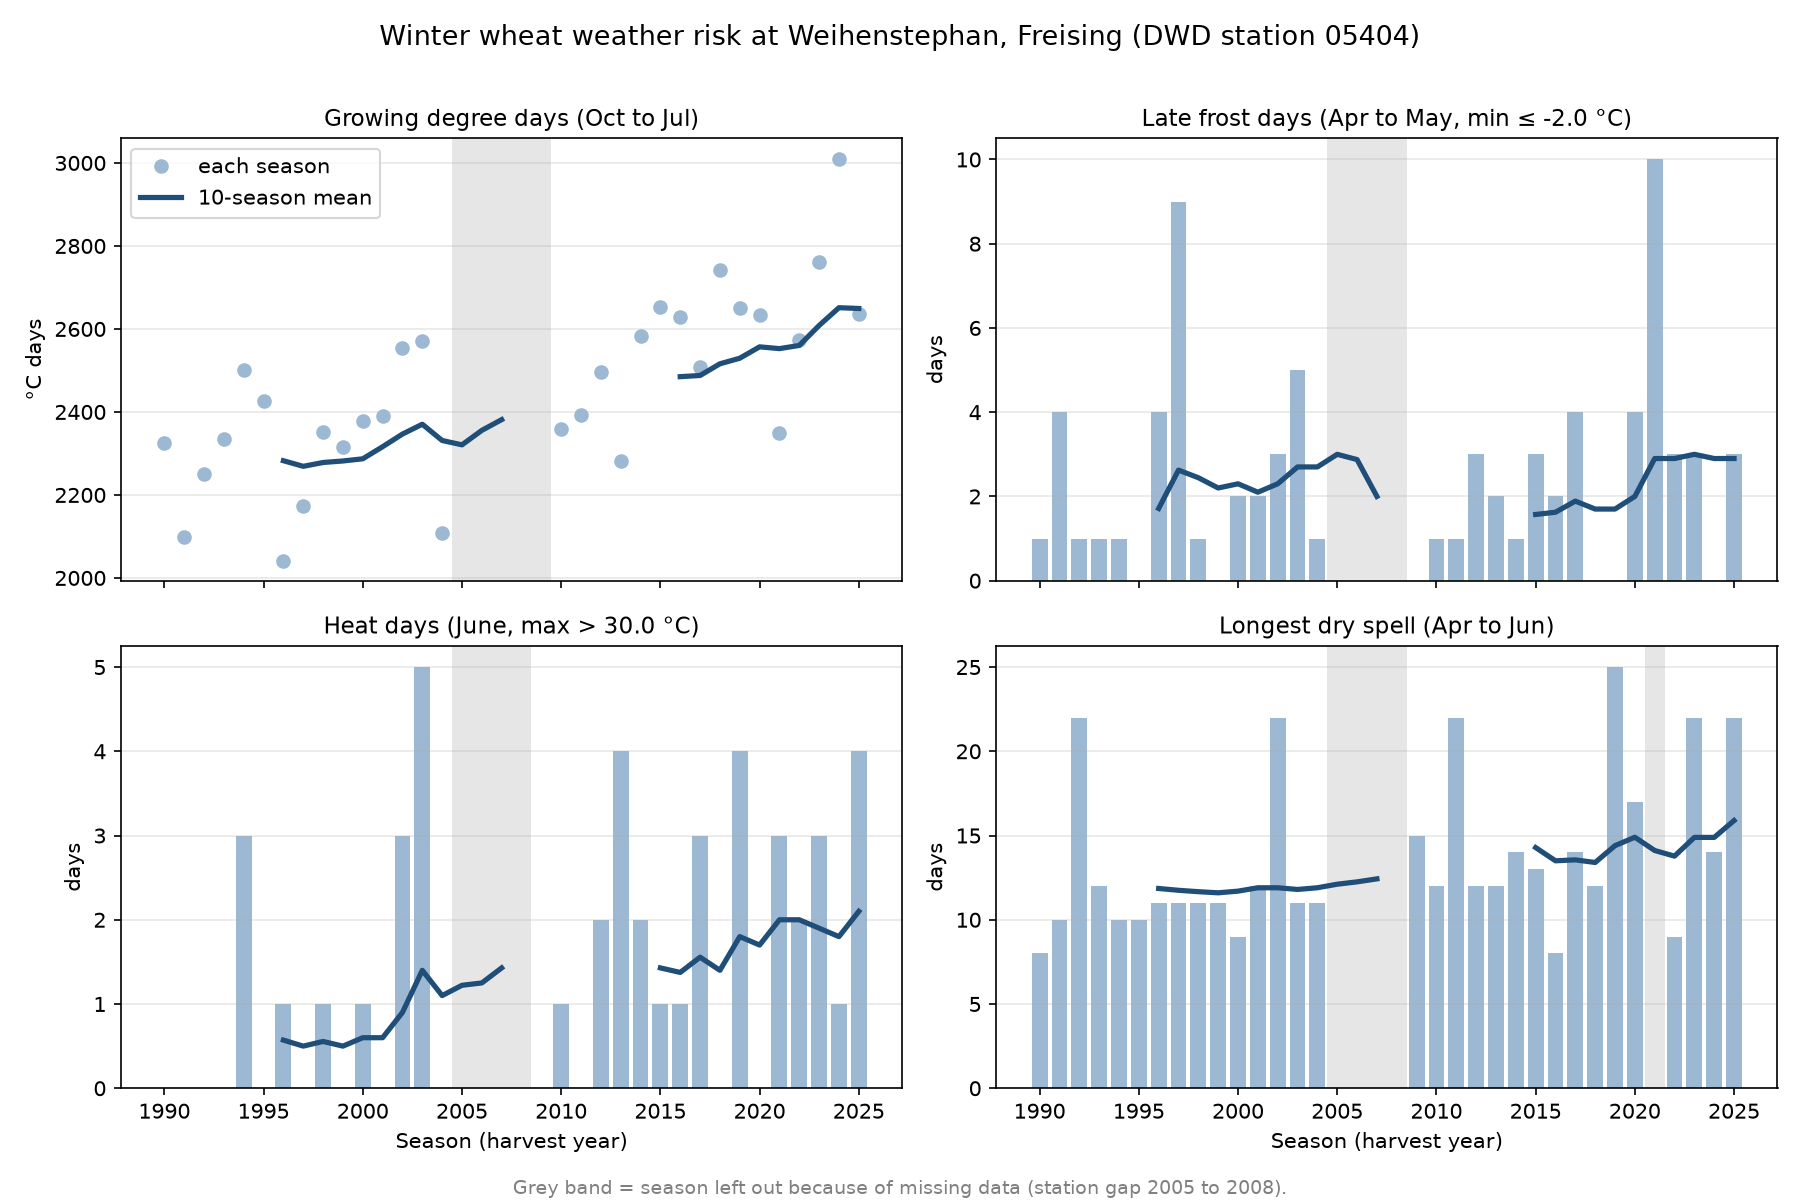
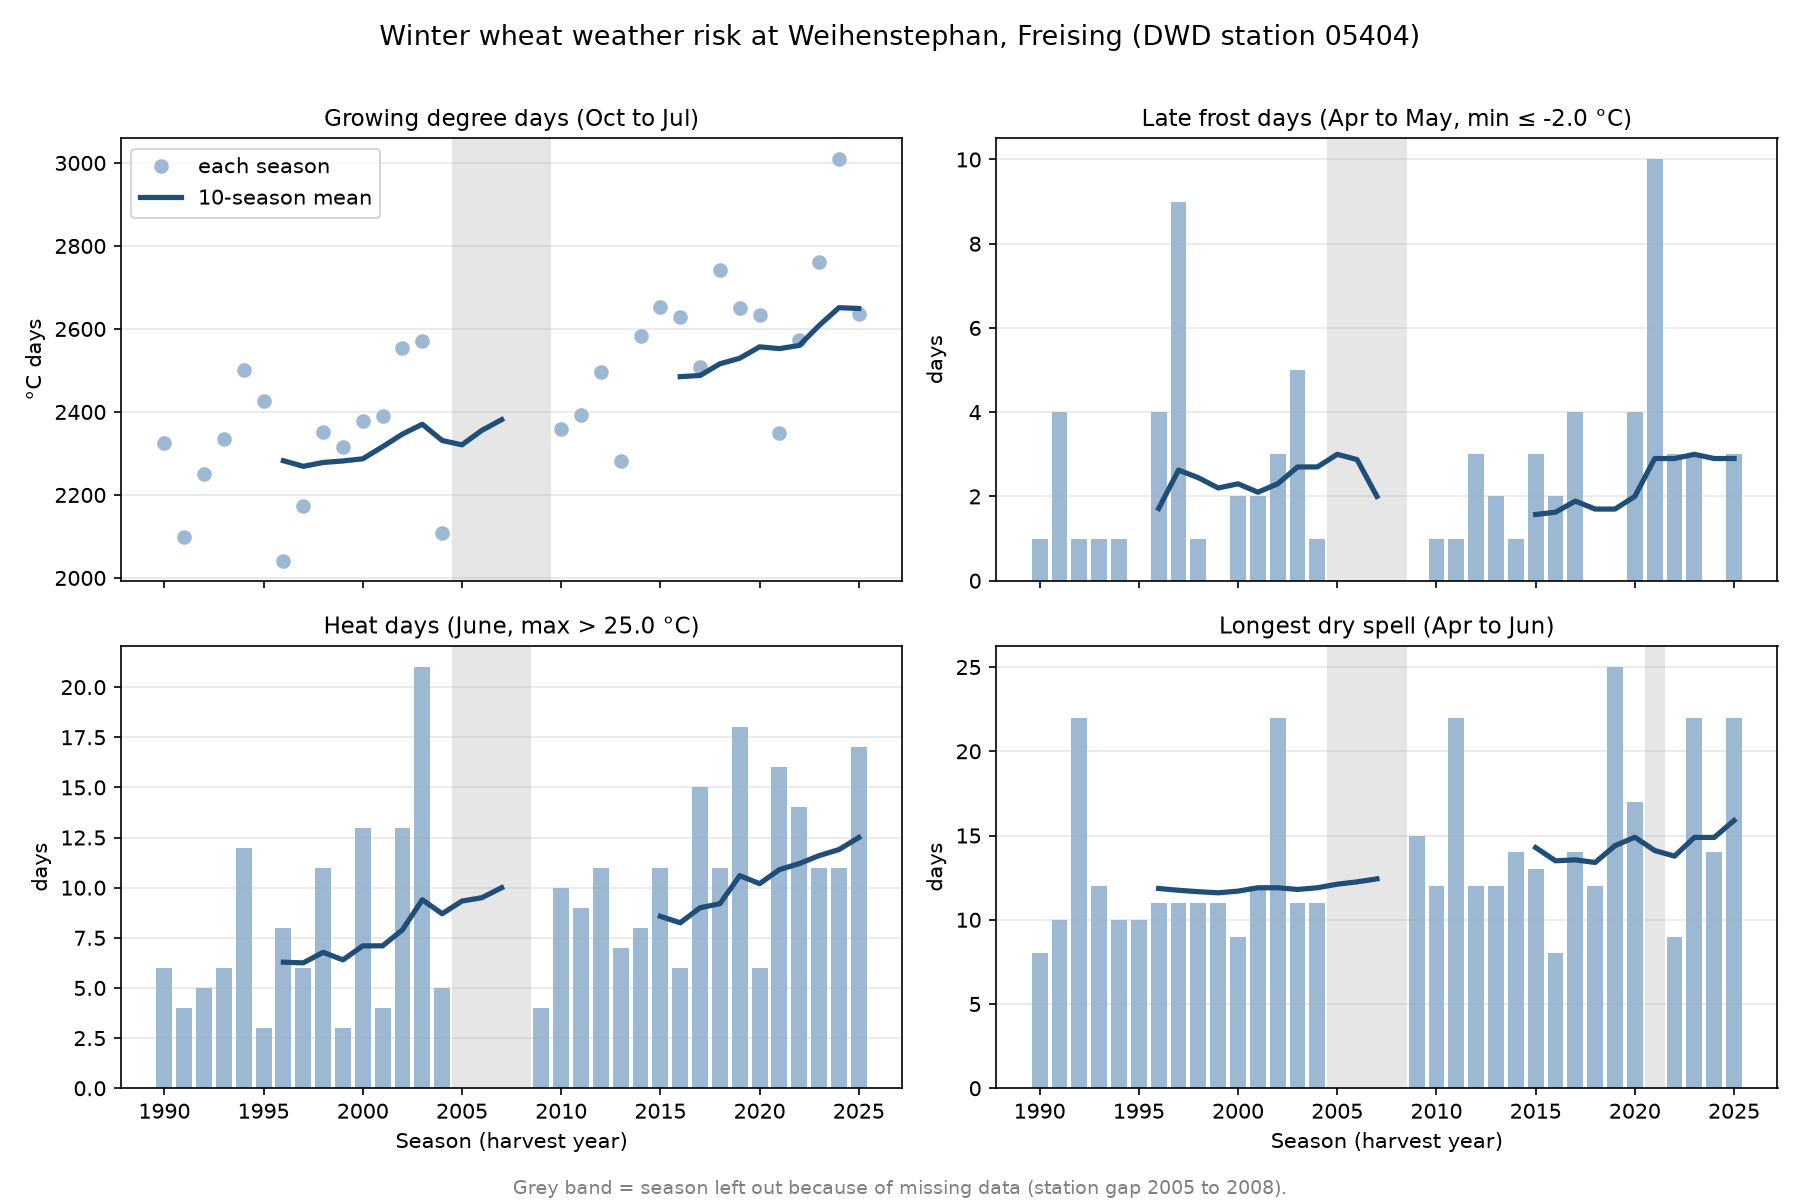
Lower heat threshold to 25 °C on Prof. Haase's advice and rerun results

Changed region(s): [[0.0, 0.5858, 0.4978, 0.925], [0.0311, 0.555, 0.0622, 0.5858]]

diff --git a/tests/test_indicators.py b/tests/test_indicators.py
@@ -54,9 +54,9 @@ def test_late_frost_counts_only_april_may_at_or_below_threshold():
 # --- heat_days ----------------------------------------------------------
 
 def test_heat_days_counts_only_june_above_threshold():
-    df = make_weather("2024-01-01", "2024-12-31", t_max=25.0)
-    set_value(df, ["2024-06-16"], "t_max", 31.0)  # above 30 °C in June: counts
-    set_value(df, ["2024-06-15"], "t_max", 30.0)  # exactly 30 °C: not above, no
+    df = make_weather("2024-01-01", "2024-12-31", t_max=20.0)  # NEW: cool base day
+    set_value(df, ["2024-06-16"], "t_max", 26.0)  # NEW: above 25 °C in June: counts
+    set_value(df, ["2024-06-15"], "t_max", 25.0)  # NEW: exactly 25 °C: not above, no
     set_value(df, ["2024-07-01"], "t_max", 35.0)  # after the window: no
     assert heat_days(df, 2024) == 1
 

diff --git a/src/config.py b/src/config.py
@@ -21,7 +21,8 @@ FROST_THRESHOLD_C = -2.0  # air minimum at or below -2 °C can damage ears at bo
 # --- Heat around flowering --------------------------------------------
 HEAT_START = "06-01"     # wheat around Freising usually flowers in early to mid June
 HEAT_END = "06-30"       # covers flowering and the start of grain fill
-HEAT_THRESHOLD_C = 30.0  # above about 30 °C at flowering, pollen fails and fewer grains set
+HEAT_THRESHOLD_C = 25.0  # NEW: lowered from 30 °C on the advice of Prof. Haase (HSWT Plant production), Nov 2026.
+                         # 25 °C is also the DWD's "summer day" mark (Sommertag).
 
 # --- Drought ----------------------------------------------------------
 DRY_START = "04-01"    # April to June is when wheat uses the most water
